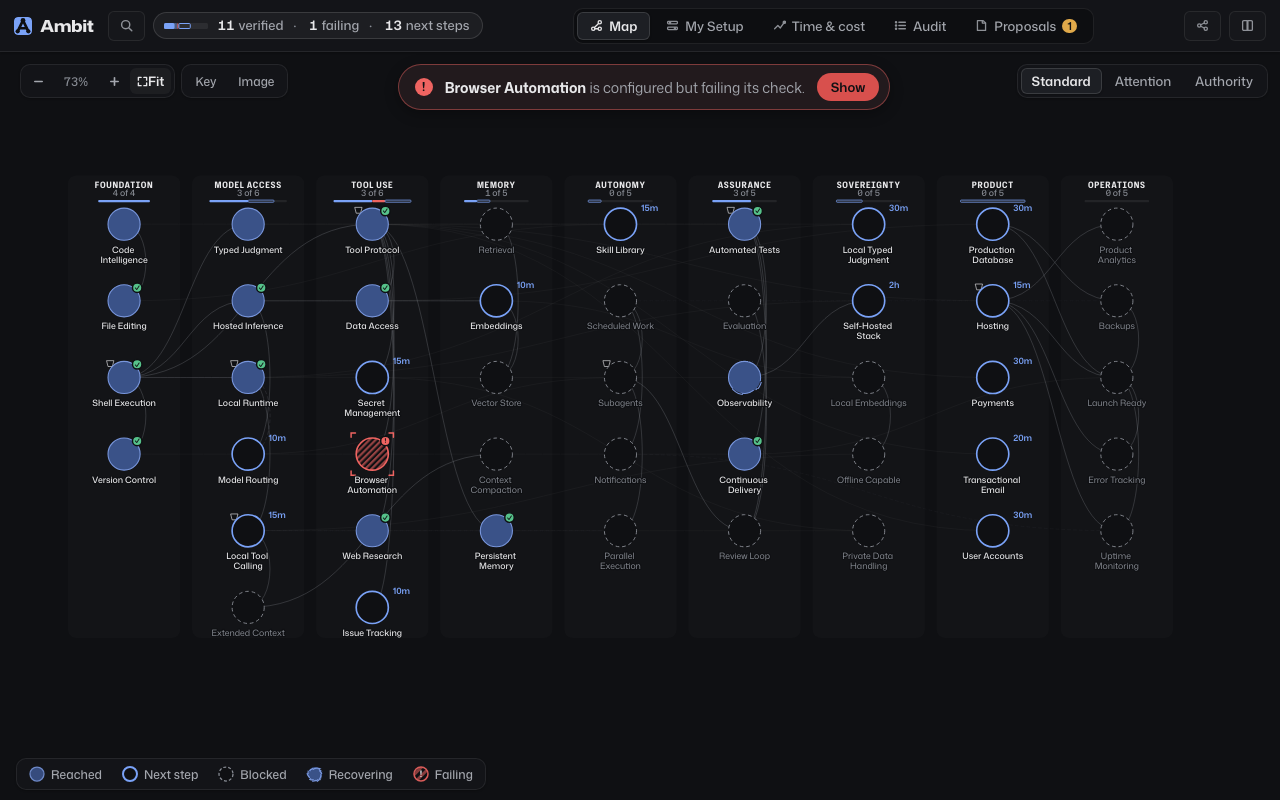
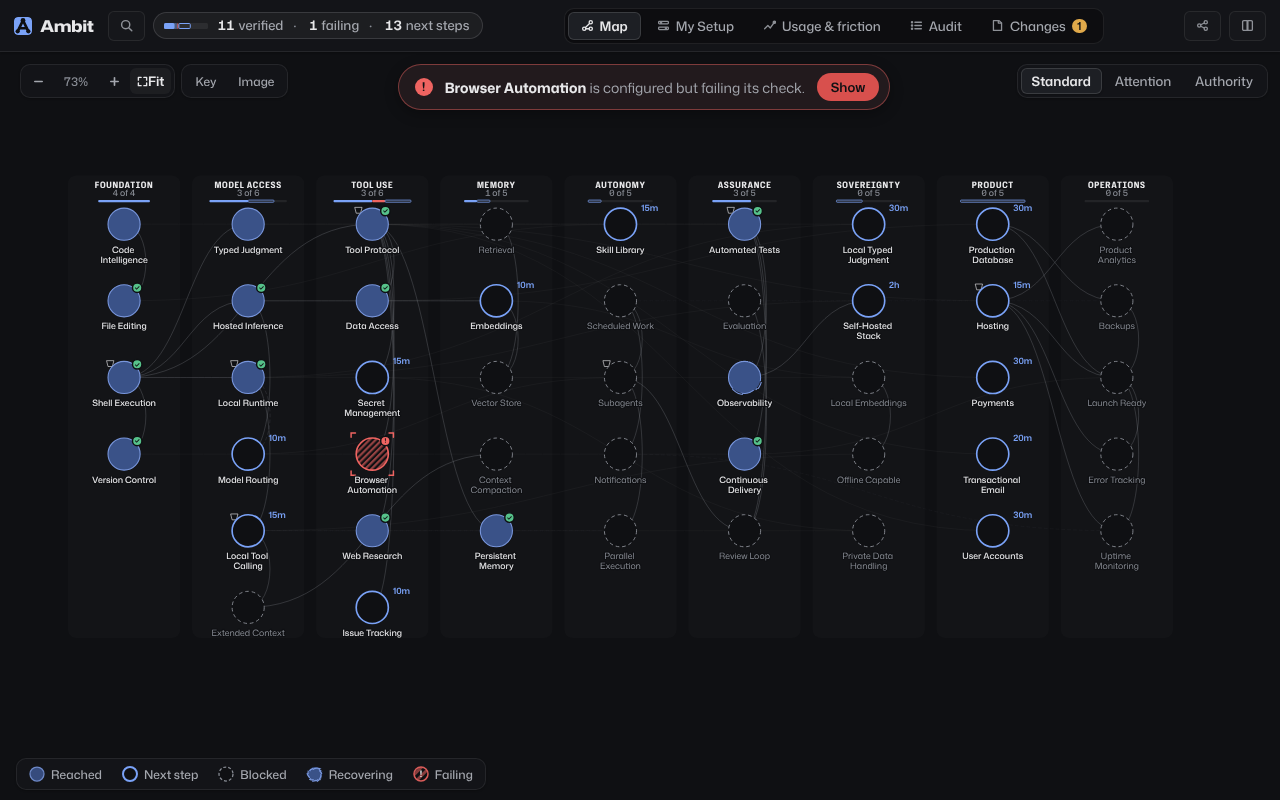
Re-record the README images, and find the Changes tab by its name
The asset check failed on main: the hero GIF and both stills were twelve
client commits behind, the threshold. Re-recording them failed too,
because the recorder still clicked a "Proposals" tab that #198 renamed
Changes, so nothing could bring the images current.

The recorder now clicks Changes, and the three images are recorded from
the fixture graph with today's client: the map, My Setup, and the GIF
ending on the change that waits for a person.

Claude-Session: https://claude.ai/code/session_01DcfMruTfeGZ93SnEBJ2fkV

Changed region(s): [[0.4375, 0.0, 0.6875, 0.0625], [0.7812, 0.0, 0.8438, 0.0625], [0.7188, 0.0312, 0.75, 0.0625]]

diff --git a/scripts/record-hero-gif.ts b/scripts/record-hero-gif.ts
@@ -629,9 +629,9 @@ async function main() {
   await cdp.clickWhere(deckTab('Standard'));
   await sleep(900);
 
-  // 7 — the proposal waiting for a person
+  // 7 — the proposal waiting for a person, under Changes
   console.log('  · proposals');
-  await cdp.clickWhere(deckTab('Proposals'));
+  await cdp.clickWhere(deckTab('Changes'));
   await sleep(1400);
   await hold(2.4);
 
